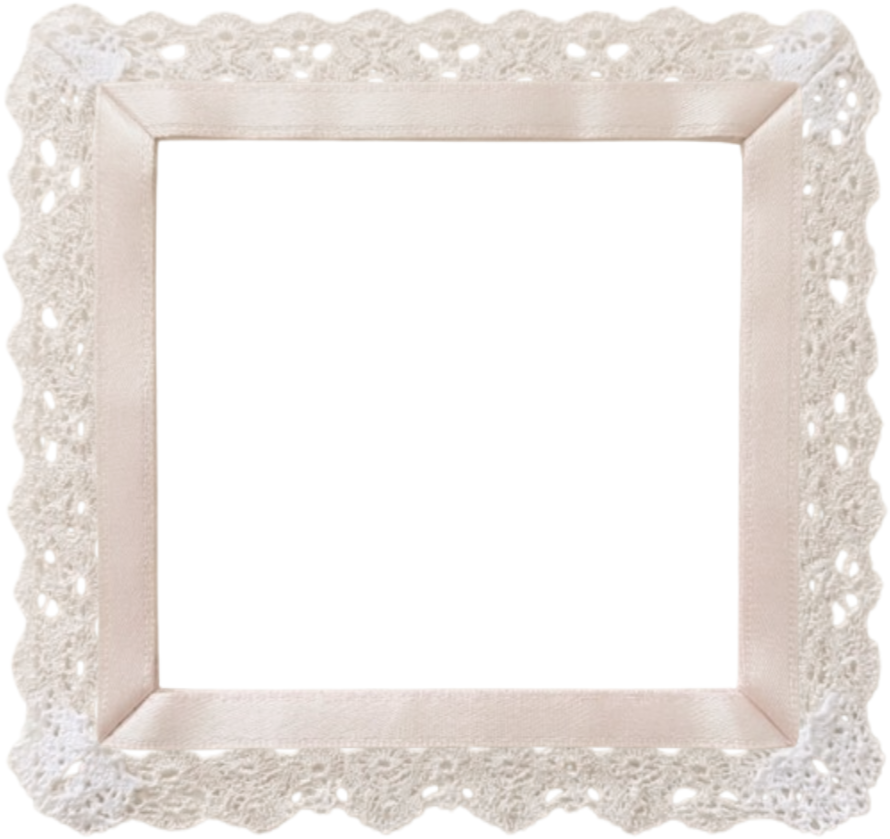
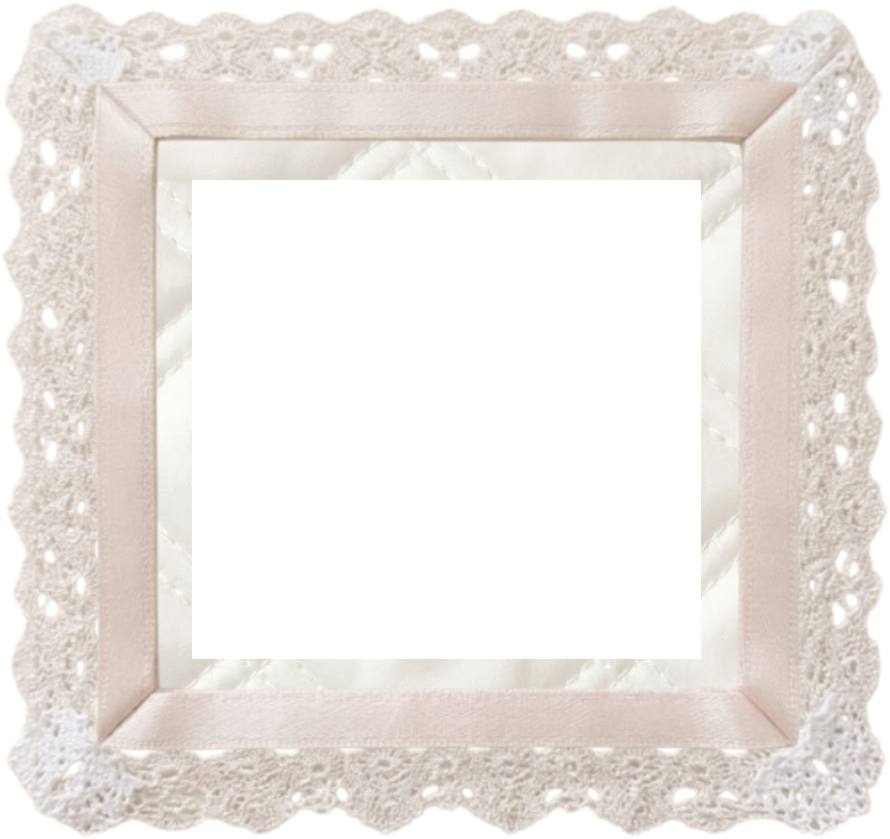
-

diff --git a/about.html b/about.html
@@ -1,0 +1,93 @@
+<!DOCTYPE html>
+<html lang="pt-BR">
+
+<head>
+    <meta charset="UTF-8">
+    <meta name="viewport" content="width=device-width, initial-scale=1.0">
+    <title>delicate place - about</title>
+    <link rel="stylesheet" href="style.css">
+</head>
+
+<body>
+    <div class="container about-layout">
+
+        <!-- Logo no topo -->
+        <div class="logo-container about-logo">
+            <img src="img/logo.png" alt="Delicate Place" class="logo">
+            <img src="img/animation.gif" alt="Ursinha animada" class="bear">
+        </div>
+
+        <!-- Caixa central -->
+        <div class="about-center-wrapper">
+            <!-- Enfeite inclinado -->
+            <img src="img/button_about.png" alt="About the dev" class="about-badge">
+
+            <!-- Botões flutuantes laterais -->
+            <img src="img/buttons1_left_about.png" alt="Enfeites esquerda" class="about-side-left">
+            <img src="img/buttons1_right_about.png" alt="Enfeites direita" class="about-side-right">
+
+            <!-- Caixa de texto com borda e fundo -->
+            <div class="about-content-box">
+                <p>Welcome to my delicate place...</p>
+                <br>
+                <p>Here I will share my projects and thoughts.</p>
+                <br>
+                <p>This box expands vertically as more text is added!</p>
+                <br>
+                <p>Welcome to my delicate place...</p>
+                <br>
+                <p>Here I will share my projects and thoughts.</p>
+                <br>
+                <p>This box expands vertically as more text is added!</p>
+                <p>Welcome to my delicate place...</p>
+                <br>
+                <p>Here I will share my projects and thoughts.</p>
+                <br>
+                <p>This box expands vertically as more text is added!</p>
+                <br>
+                <p>Welcome to my delicate place...</p>
+                <br>
+                <p>Here I will share my projects and thoughts.</p>
+                <br>
+                <p>This box expands vertically as more text is added!</p>
+                <p>Welcome to my delicate place...</p>
+                <br>
+                <p>Here I will share my projects and thoughts.</p>
+                <br>
+                <p>This box expands vertically as more text is added!</p>
+                <br>
+                <p>Welcome to my delicate place...</p>
+                <br>
+                <p>Here I will share my projects and thoughts.</p>
+                <br>
+                <p>This box expands vertically as more text is added!</p>
+                <p>Welcome to my delicate place...</p>
+                <br>
+                <p>Here I will share my projects and thoughts.</p>
+                <br>
+                <p>This box expands vertically as more text is added!</p>
+                <br>
+                <p>Welcome to my delicate place...</p>
+                <br>
+                <p>Here I will share my projects and thoughts.</p>
+                <br>
+                <p>This box expands vertically as more text is added!</p>
+            </div>
+        </div>
+
+    </div>
+
+    <script>
+        let isState1 = true;
+        const leftBtn = document.querySelector('.about-side-left');
+        const rightBtn = document.querySelector('.about-side-right');
+
+        setInterval(() => {
+            isState1 = !isState1;
+            leftBtn.src = isState1 ? 'img/buttons1_left_about.png' : 'img/buttons2_left_about.png';
+            rightBtn.src = isState1 ? 'img/buttons1_right_about.png' : 'img/buttons2_right_about.png';
+        }, 500);
+    </script>
+</body>
+
+</html>

diff --git a/style.css b/style.css
@@ -119,3 +119,133 @@ body {
     transform: scale(1.03);
     filter: brightness(1.05);
 }
+
+/* =========================================
+   ESTILOS ESPECÍFICOS DA PÁGINA ABOUT
+   ========================================= */
+
+/* Permite rolagem caso o texto da caixa cresça muito */
+body:has(.about-layout) {
+    overflow-y: auto;
+    overflow-x: hidden;
+}
+
+/* Reposiciona a logo para ficar no topo na página about */
+.about-logo {
+    top: 18%;
+    transform: translate(-50%, -50%) scale(0.6);
+}
+
+/* Wrapper central para a caixa de conteúdo */
+.about-center-wrapper {
+    position: absolute;
+    top: 35%;
+    /* Começa logo abaixo da logo e cresce apenas para baixo */
+    left: 50%;
+    transform: translateX(-50%);
+    margin-bottom: 10vh;
+    /* Garante que tenha espaço de respiro no final da página se crescer muito */
+    width: 60vh;
+    /* O width em vh que você definiu fica no wrapper */
+    max-width: 80vw;
+    /* Limite de segurança! Impede que corte no celular */
+    z-index: 10;
+}
+
+/* A caixa principal que estica verticalmente */
+.about-content-box {
+    width: 100%;
+    max-height: 60vh;
+    /* Limite de expansão para evitar deformação */
+    overflow-y: auto;
+    /* Permite rolagem interna do texto */
+    scrollbar-color: #e2d5d0 transparent;
+    /* Firefox: cor do polegar e trilha */
+
+    /* Configuração da borda (borders.png) */
+    border: 60px solid transparent;
+    border-image-source: url('img/borders.png');
+    border-image-slice: 21.5% fill;
+    border-image-repeat: round;
+
+    /* Fundo repetitivo (repeat.png) */
+    background-image: url('img/repeat.png');
+    background-repeat: repeat;
+    background-clip: content-box;
+    /* Faz o fundo respeitar o padding, criando o recuo! */
+
+    text-align: center;
+    color: #a38c8c;
+    font-size: 1.2rem;
+    line-height: 1.6;
+}
+
+/* Botão inclinado no topo esquerdo da caixa */
+.about-badge {
+    position: absolute;
+    top: 0;
+    left: 0;
+    width: 35%;
+    height: auto;
+    /* translate usa o próprio tamanho do botão para deslocar, garantindo proporção perfeita independente da largura/altura da tela */
+    transform: translate(-25%, -25%) rotate(-10deg);
+    z-index: 12;
+}
+
+/* Enfeites flutuantes laterais */
+.about-side-left {
+    position: absolute;
+    right: 110%;
+    /* Empurra estritamente para fora da borda esquerda da caixa */
+    margin-right: 3vw;
+    top: 50%;
+    transform: translateY(-50%);
+    width: 25%;
+}
+
+.about-side-right {
+    position: absolute;
+    left: 110%;
+    /* Empurra estritamente para fora da borda direita da caixa */
+    margin-left: 3vw;
+    top: 50%;
+    transform: translateY(-50%);
+    width: 25%;
+}
+
+/* Scrollbar decorativa (Chrome/Safari/Edge) */
+.about-content-box::-webkit-scrollbar {
+    width: 10px;
+}
+
+.about-content-box::-webkit-scrollbar-track {
+    background-color: transparent;
+    /* Tom rosa-creme claro, como o fundo da página */
+    border-radius: 10px;
+}
+
+.about-content-box::-webkit-scrollbar-thumb {
+    background-color: #e2d5d0;
+    border-radius: 10px;
+    /* Borda fina que cria um efeito de recuo suave */
+}
+
+.about-content-box::-webkit-scrollbar-thumb:hover {
+    background-color: #e2d5d0;
+    /* Escurece levemente no hover */
+}
+
+/* =========================================
+   RESPONSIVIDADE (MOBILE)
+   ========================================= */
+@media (max-width: 768px) {
+
+    /* Aumenta a logo na página about em telas pequenas */
+    .about-logo {
+        transform: translate(-50%, -50%) scale(1);
+    }
+
+    .about-center-wrapper {
+        top: 30%;
+    }
+}
